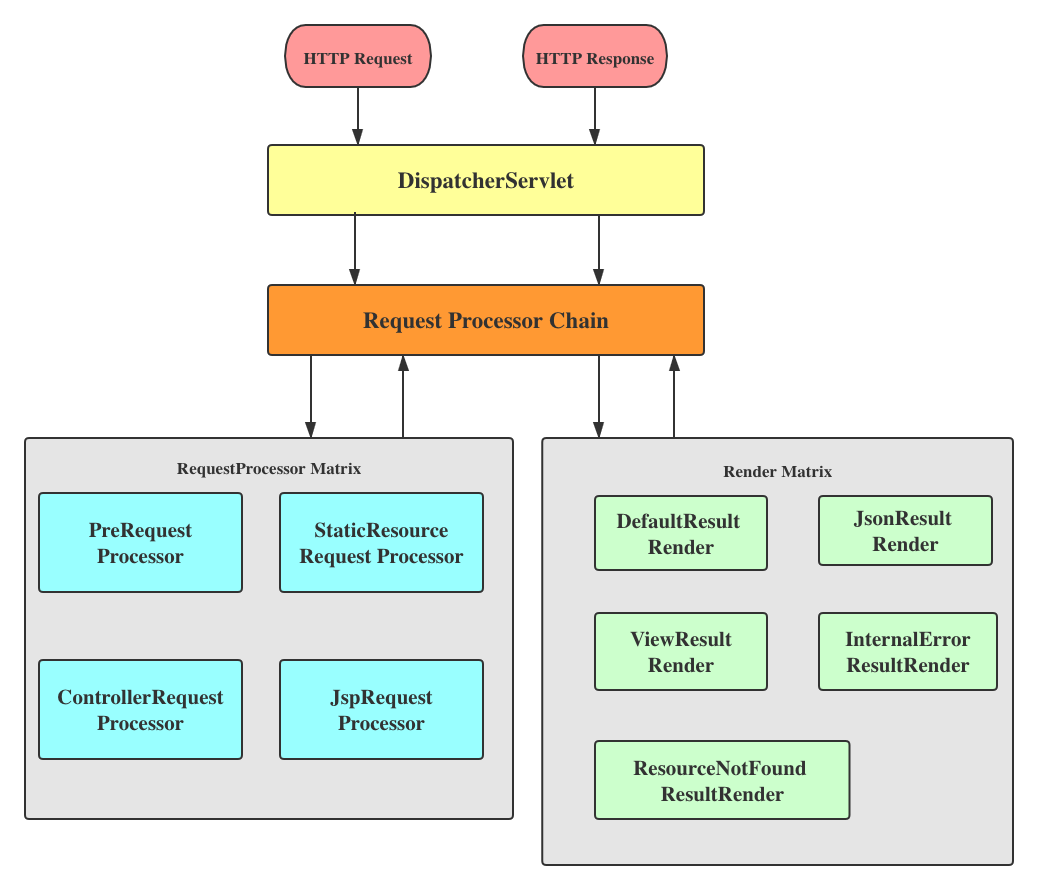
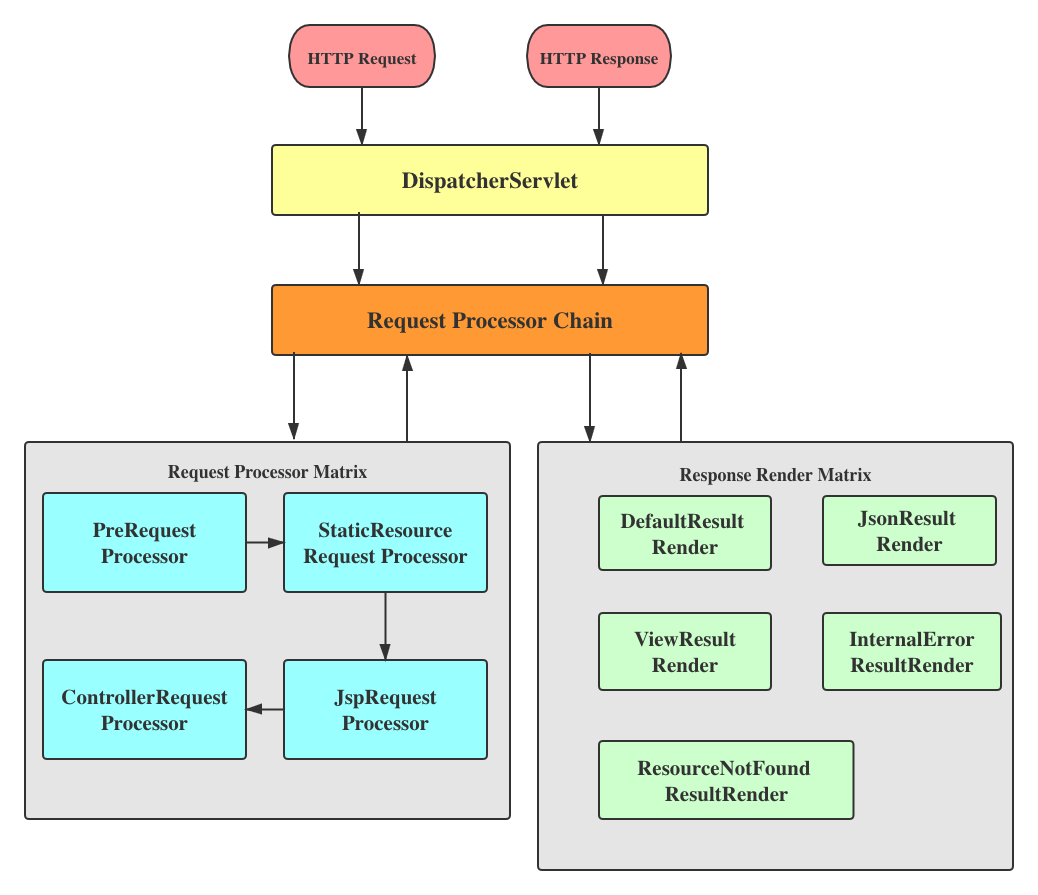
[Add] initPathControllerMethodMap

diff --git a/src/main/java/org/alex/mvc/processor/impl/ControllerRequestProcessor.java b/src/main/java/org/alex/mvc/processor/impl/ControllerRequestProcessor.java
@@ -1,19 +1,91 @@
 package org.alex.mvc.processor.impl;
 
+import lombok.extern.slf4j.Slf4j;
+import org.alex.core.BeanContainer;
 import org.alex.mvc.RequestProcessorChain;
+import org.alex.mvc.annotation.RequestMapping;
+import org.alex.mvc.annotation.RequestParam;
 import org.alex.mvc.processor.RequestProcessor;
+import org.alex.mvc.type.ControllerMethod;
+import org.alex.mvc.type.RequestPathInfo;
+import org.alex.util.ValidationUtil;
 
 import javax.servlet.ServletContext;
+import java.lang.reflect.Method;
+import java.lang.reflect.Parameter;
+import java.util.HashMap;
+import java.util.Map;
+import java.util.Set;
+import java.util.concurrent.ConcurrentHashMap;
 
 /**
  * @author Alex CHEN
  * @version 1.0
  * @since 2020-08-02 21:34
  */
+@Slf4j
 public class ControllerRequestProcessor implements RequestProcessor {
 
-    public ControllerRequestProcessor(ServletContext servletContext) {
+    // IOC Container
+    private BeanContainer beanContainer;
 
+    private Map<RequestPathInfo, ControllerMethod> pathInfoControllerMethodMap = new ConcurrentHashMap<>();
+
+    public ControllerRequestProcessor(ServletContext servletContext) {
+        this.beanContainer = BeanContainer.getInstance();
+        Set<Class<?>> requestMappingSet = beanContainer.getClassByAnnotation(RequestMapping.class);
+        initPathControllerMethodMap(requestMappingSet);
+    }
+
+    private void initPathControllerMethodMap(Set<Class<?>> requestMappingSet) {
+        if (ValidationUtil.isEmpty(requestMappingSet)) {
+            return;
+        }
+
+        for (Class<?> requestMappingClazz : requestMappingSet) {
+            // 1. get base path from @RequestMapping at controller class level
+            RequestMapping requestMapping = requestMappingClazz.getAnnotation(RequestMapping.class);
+            String basePath = requestMapping.value();
+            if (!basePath.startsWith("/")) {
+                basePath = "/" + basePath;
+            }
+
+            // 2. get remaining path from @RequestMapping at controller method level
+            Method[] methods = requestMappingClazz.getDeclaredMethods();
+            if (ValidationUtil.isEmpty(methods)) {
+                continue;
+            }
+            for (Method method : methods) {
+                if (method.isAnnotationPresent(RequestMapping.class)) {
+                    RequestMapping methodRequest = method.getAnnotation(RequestMapping.class);
+                    String methodPath = methodRequest.value();
+                    if (!methodPath.startsWith("/")) {
+                        methodPath = "/" + basePath;
+                    }
+                    String url = basePath + methodPath;
+
+                    // 3. get params from @RequestParam
+                    Map<String, Class<?>> methodParams = new HashMap<>();
+                    Parameter[] parameters = method.getParameters();
+                    if (ValidationUtil.isEmpty(parameters)) {
+                        continue;
+                    }
+                    for (Parameter parameter : parameters) {
+                        RequestParam param = parameter.getAnnotation(RequestParam.class);
+                        if (param == null) {
+                            throw new RuntimeException("The parameter must have @RequestParam");
+                        }
+                        methodParams.put(param.value(), parameter.getType());
+
+                        // 4. Wrap as RequestPathInfo & ControllerMethod
+                        String httpMethod = String.valueOf(requestMapping.method());
+                        RequestPathInfo requestPathInfo = new RequestPathInfo(httpMethod, url);
+                        ControllerMethod controllerMethod = new ControllerMethod(requestMappingClazz, method, methodParams);
+                        this.pathInfoControllerMethodMap.put(requestPathInfo, controllerMethod);
+                    }
+                }
+            }
+        }
     }
 
     @Override

diff --git a/src/main/java/org/alex/mvc/annotation/RequestParam.java b/src/main/java/org/alex/mvc/annotation/RequestParam.java
@@ -1,0 +1,23 @@
+package org.alex.mvc.annotation;
+
+import java.lang.annotation.ElementType;
+import java.lang.annotation.Retention;
+import java.lang.annotation.RetentionPolicy;
+import java.lang.annotation.Target;
+
+/**
+ * @author Alex CHEN
+ * @version 1.0
+ * @since 2020-08-02 22:56
+ */
+
+@Target(ElementType.PARAMETER)
+@Retention(RetentionPolicy.RUNTIME)
+public @interface RequestParam {
+
+    // request param value
+    String value() default "";
+
+    // if required
+    boolean required() default true;
+}

diff --git a/src/main/java/org/alex/mvc/annotation/RequestMapping.java b/src/main/java/org/alex/mvc/annotation/RequestMapping.java
@@ -1,0 +1,19 @@
+package org.alex.mvc.annotation;
+
+import org.alex.mvc.type.RequestMethod;
+
+import java.lang.annotation.ElementType;
+import java.lang.annotation.Retention;
+import java.lang.annotation.RetentionPolicy;
+import java.lang.annotation.Target;
+
+@Target({ElementType.TYPE, ElementType.METHOD})
+@Retention(RetentionPolicy.RUNTIME)
+public @interface RequestMapping {
+
+    // request path
+    String value() default "";
+
+    // request method
+    RequestMethod method() default RequestMethod.GET;
+}

diff --git a/src/main/java/org/alex/mvc/type/ControllerMethod.java b/src/main/java/org/alex/mvc/type/ControllerMethod.java
@@ -1,0 +1,23 @@
+package org.alex.mvc.type;
+
+import lombok.AllArgsConstructor;
+import lombok.Data;
+import lombok.NoArgsConstructor;
+
+import java.lang.reflect.Method;
+import java.util.Map;
+
+/**
+ * @author Alex CHEN
+ * @version 1.0
+ * @since 2020-08-02 22:58
+ */
+@Data
+@AllArgsConstructor
+@NoArgsConstructor
+public class ControllerMethod {
+
+    private Class<?> controllerClass;
+    private Method invokeMethod;
+    private Map<String, Class<?>> methodParams;
+}

diff --git a/src/main/java/org/alex/mvc/type/RequestPathInfo.java b/src/main/java/org/alex/mvc/type/RequestPathInfo.java
@@ -1,0 +1,19 @@
+package org.alex.mvc.type;
+
+import lombok.AllArgsConstructor;
+import lombok.Data;
+import lombok.NoArgsConstructor;
+
+/**
+ * @author Alex CHEN
+ * @version 1.0
+ * @since 2020-08-02 23:00
+ */
+@Data
+@AllArgsConstructor
+@NoArgsConstructor
+public class RequestPathInfo {
+
+    private String httpMethod;
+    private String httpPath;
+}

diff --git a/src/main/java/org/alex/mvc/annotation/ResponseBody.java b/src/main/java/org/alex/mvc/annotation/ResponseBody.java
@@ -1,0 +1,11 @@
+package org.alex.mvc.annotation;
+
+import java.lang.annotation.ElementType;
+import java.lang.annotation.Retention;
+import java.lang.annotation.RetentionPolicy;
+import java.lang.annotation.Target;
+
+@Target(ElementType.METHOD)
+@Retention(RetentionPolicy.RUNTIME)
+public @interface ResponseBody {
+}

diff --git a/src/main/java/org/alex/mvc/type/RequestMethod.java b/src/main/java/org/alex/mvc/type/RequestMethod.java
@@ -1,0 +1,7 @@
+package org.alex.mvc.type;
+
+public enum RequestMethod {
+
+    GET,
+    POST
+}

diff --git a/README.md b/README.md
@@ -191,3 +191,16 @@
 ## Spring MVC
 
 ![](./src/main/resources/img/mvc_flow.png)
+
+* **Request Processor**
+	
+	- Pre: encoding & path trimming
+	
+	- Static: resource under *webapp/static/*
+
+	- Jsp: resource under *webapp/templates/*
+	
+	- Controller:
+		- Mapping request to corresponding controller and handler method.
+		- Parse request params, and assign to controller method accordingly.
+		- Select Response Render
